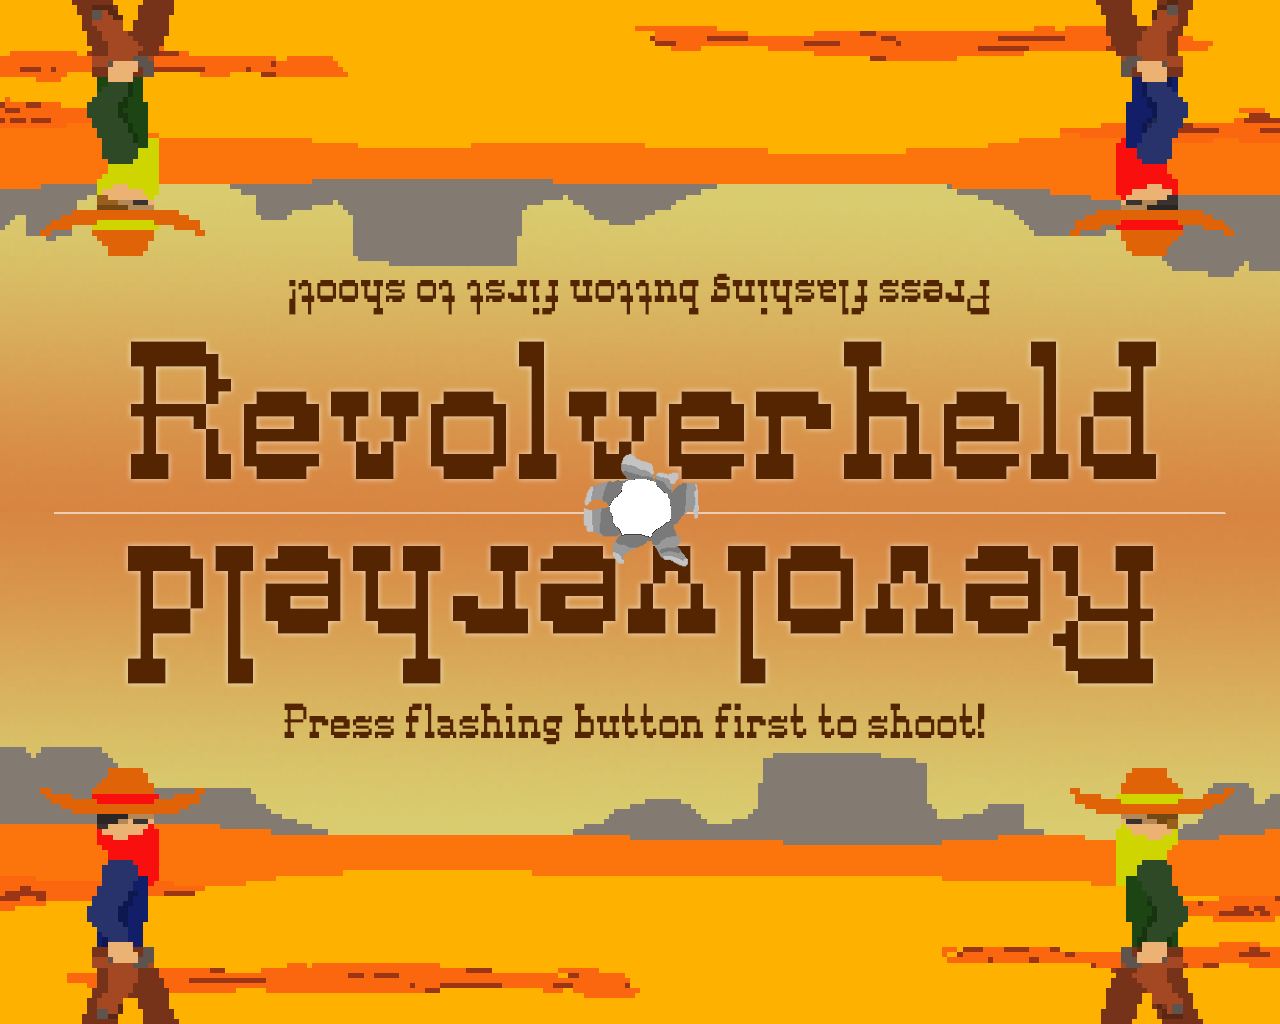
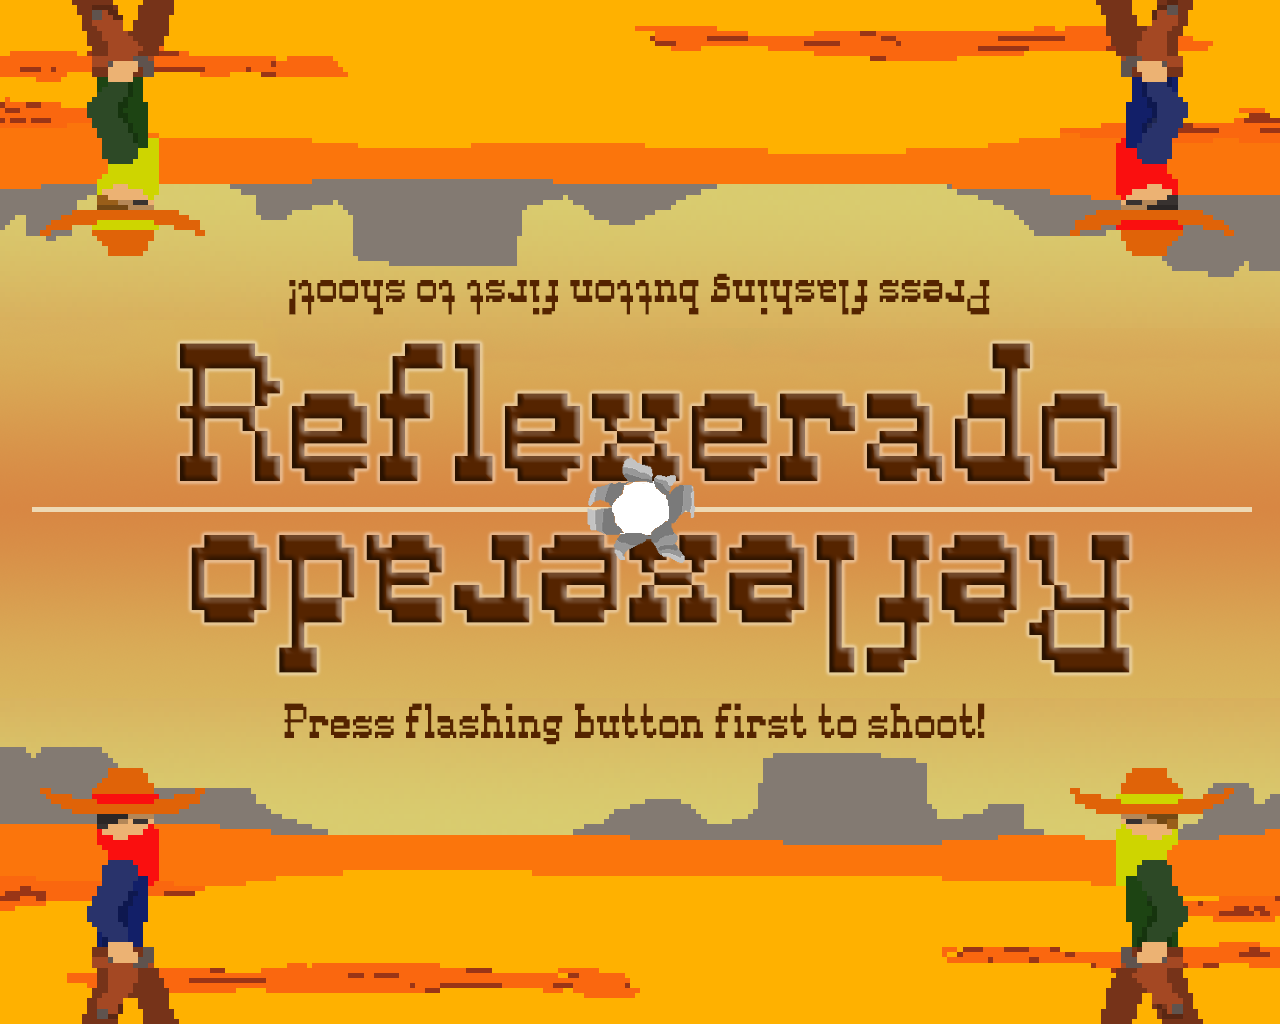
changed name back to reflexerado. added new background image and fakescreen.

Changed region(s): [[0.0312, 0.3125, 0.9688, 0.6875]]

diff --git a/index.html b/index.html
@@ -15,7 +15,7 @@
             src: url(assets/font/old_pixel-7.ttf) format("truetype");
         }
     </style>
-    <title>Revolverheld</title>
+    <title>Reflexerado</title>
     <link rel="icon" type="image/png" href="assets/favicon.png"/>
 
 </head>
@@ -56,7 +56,7 @@
     };
 </script>
 <div id="container" style="display:none">
-    <h1 id="start" style="font-family:Western; font-size: 40pt">Revolverheld&nbsp;</h1>
+    <h1 id="start" style="font-family:Western; font-size: 40pt">Reflexerado&nbsp;</h1>
 
     <p id="control-webmode" style="font-size: 12pt; display: none">p1 (red): q,s (red),y - p2 (yellow): i,j (red),m</p>
     <p style="font-size: 12pt; display: none">p1 (red): a,2 (red),c - p2 (yellow): i,k (red),#</p>
